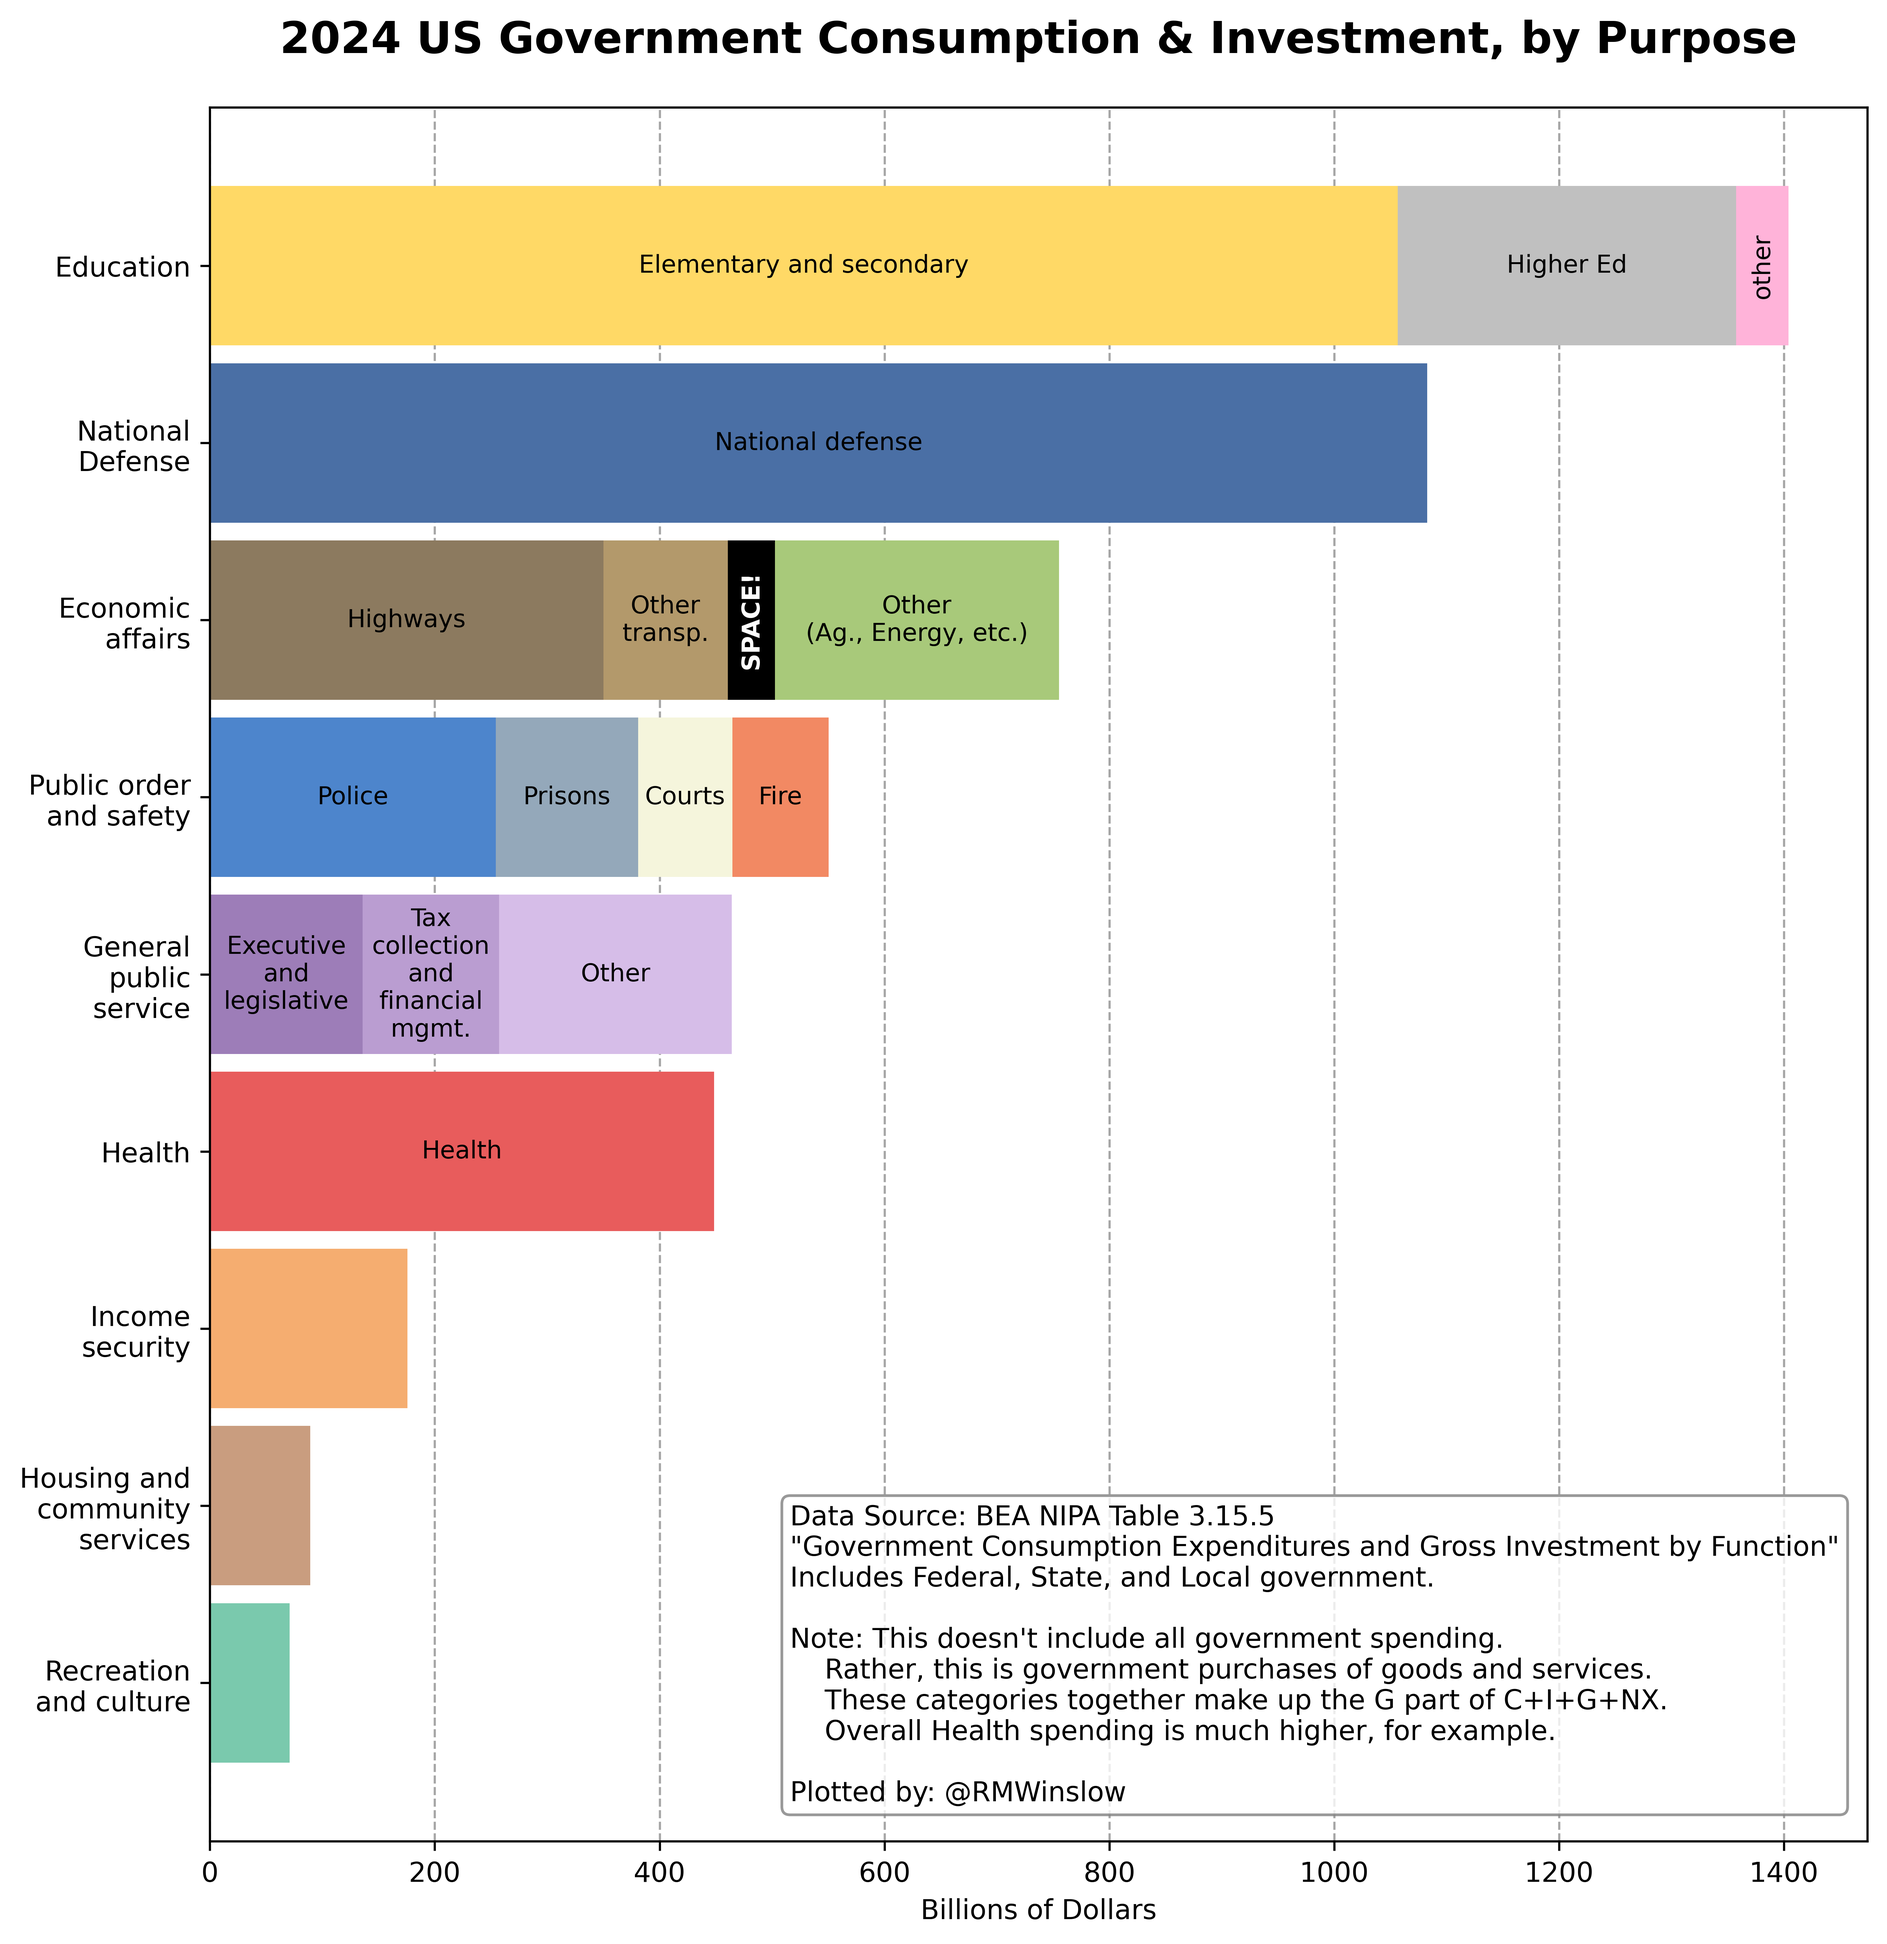
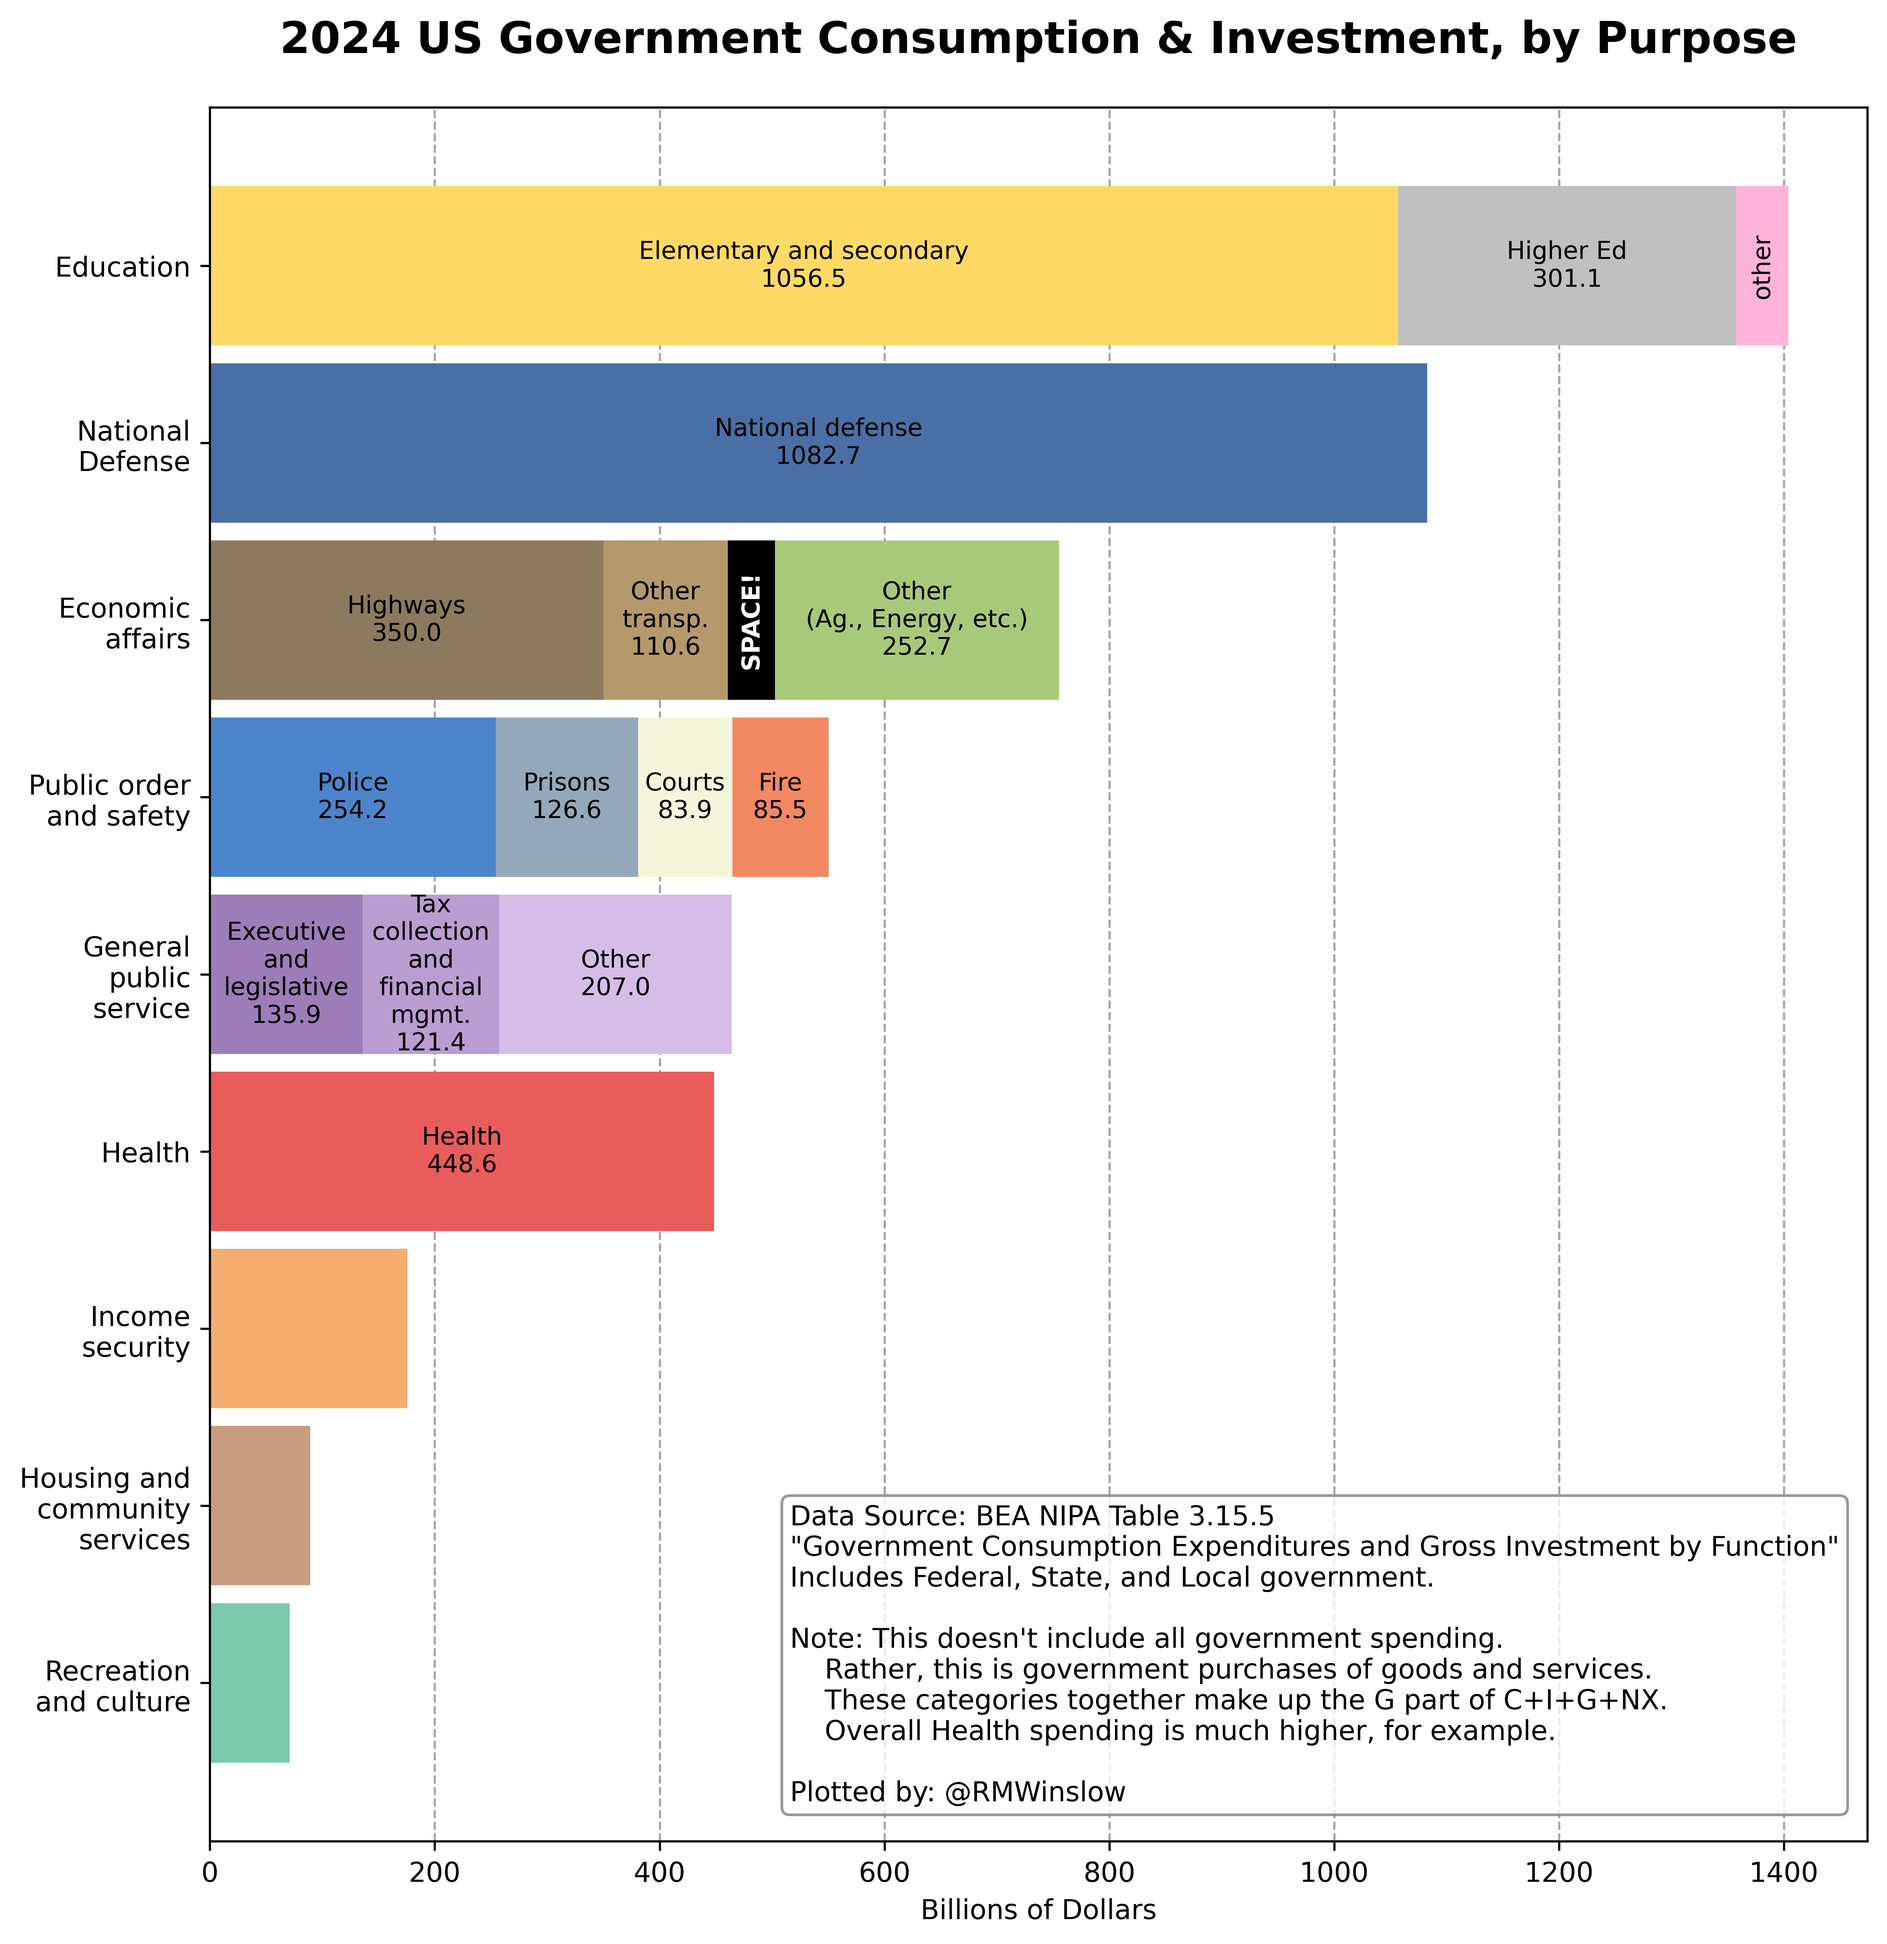
Gov Spending. Number under label.
Might not keep. Eh.

diff --git a/econ/table 3.15.5/stacked_graph.py b/econ/table 3.15.5/stacked_graph.py
@@ -12,7 +12,8 @@ import matplotlib.patheffects as pe
 
 
 def plot_budget_stacked_bars(budget_data, title, info_text, output_filename=None, 
-                             figsize=(10,10), bar_height=0.9, dpi=600, xlim=None):
+                             figsize=(10,10), bar_height=0.9, dpi=600, xlim=None,
+                             SHOW_VALUE=True):
     """
     Create a horizontal stacked bar chart for budget data.
     
@@ -71,14 +72,22 @@ def plot_budget_stacked_bars(budget_data, title, info_text, output_filename=None
             if len(subcomponents) > 1 or width > 200: 
                 # Rotate label 90 degrees if bar width is small (e.g., < 80)
                 rotation = 90 if width < 80 else 0
+                if rotation == 0 and SHOW_VALUE==True:
+                    # append italicized value to label
+                    subcomp = f'{subcomp}\n{value:.1f}'
+
                 ax.text(left + width / 2, y[i], f'{subcomp}', 
-                        ha='center', va='center', color='black', fontsize=9, rotation=rotation)
+                        ha='center', va='center', color='black', fontsize=9, rotation=rotation,
+                        # linespacing=0.9
+                        )
                 
                 # Special handling for 'SPACE!' label
                 if subcomp == 'SPACE!':
                     ax.text(left + width / 2, y[i], f'{subcomp}', 
                             ha='center', va='center', color='white', fontsize=9, rotation=rotation,
-                            weight='bold')
+                            weight='bold', 
+                            # linespacing=0.9,
+                            )
             left += value
     
     # Customize plot
